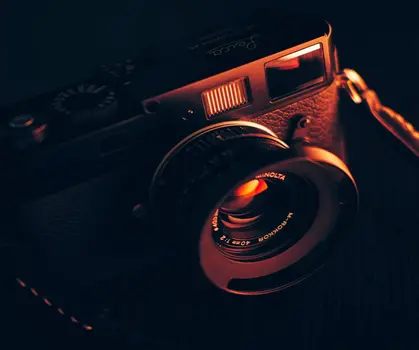
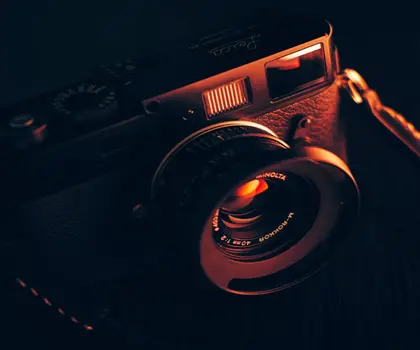
maj
optimisation

diff --git a/index.html b/index.html
@@ -22,7 +22,6 @@
 	<link
 		href="https://fonts.googleapis.com/css2?family=Inter&family=Spectral:ital,wght@0,400;1,300;1,400;1,800&display=swap"
 		rel="stylesheet">
-	<meta charset="UTF-8">
 	<style>
 		body {
 			color: #202020
@@ -225,7 +224,7 @@
 
 <body>
 	<div class="top-header">
-		<h1 class="name">Nina Carducci</h3>
+		<h1 class="name">Nina Carducci</h1>
 			<div class="nav">
 				<ul>
 					<li><a href="#about">À propos</a></li>
@@ -281,7 +280,7 @@
 	<div id="about">
 		<div class="picture left">
 			<img class="mobile1" src="assets/images/nina.webp" alt="photoprofile" width="100" height="400" />
-			<img class="desk" src="assets/images/ninamobile.webp" alt="photoprofile" width="100" height="400" />
+			<img class="desk" src="assets/images/nina (2).webp" alt="photoprofile" width="100" height="400" />
 		</div>
 		<div id="about-me">
 			<h2 class="about-me__title">A propos de moi</h2>
@@ -411,8 +410,8 @@
 				</div>
 			</div>
 			<div class="picture right">
-				<img src="assets/images/camera.webp" alt="camera" width="100%" height="350" />
-				
+				<img class="mobile1" src="assets/images/camera.webp" alt="camera" width="100%" height="350" />
+				<img class="desk" src="assets/images/cameradesk.webp" alt="camera" width="100%" height="350" />
 			</div>
 		</div>
 	</div>

diff --git a/assets/dist/style.css b/assets/dist/style.css
@@ -173,15 +173,7 @@ body {
 img.desk {
 	display: none;
 }
-@media (min-width: 768px) {
-	img.desk {
-		display: block;
-	}
 
-	img.mobile1 {
-		display: none;
-	}
-}
 
 #contact .container {
 	display: flex;
@@ -339,3 +331,12 @@ input[type="submit"] {
 	}
 }
 
+@media (min-width: 768px) {
+	img.desk {
+		display: block;
+	}
+
+	img.mobile1 {
+		display: none;
+	}
+}
